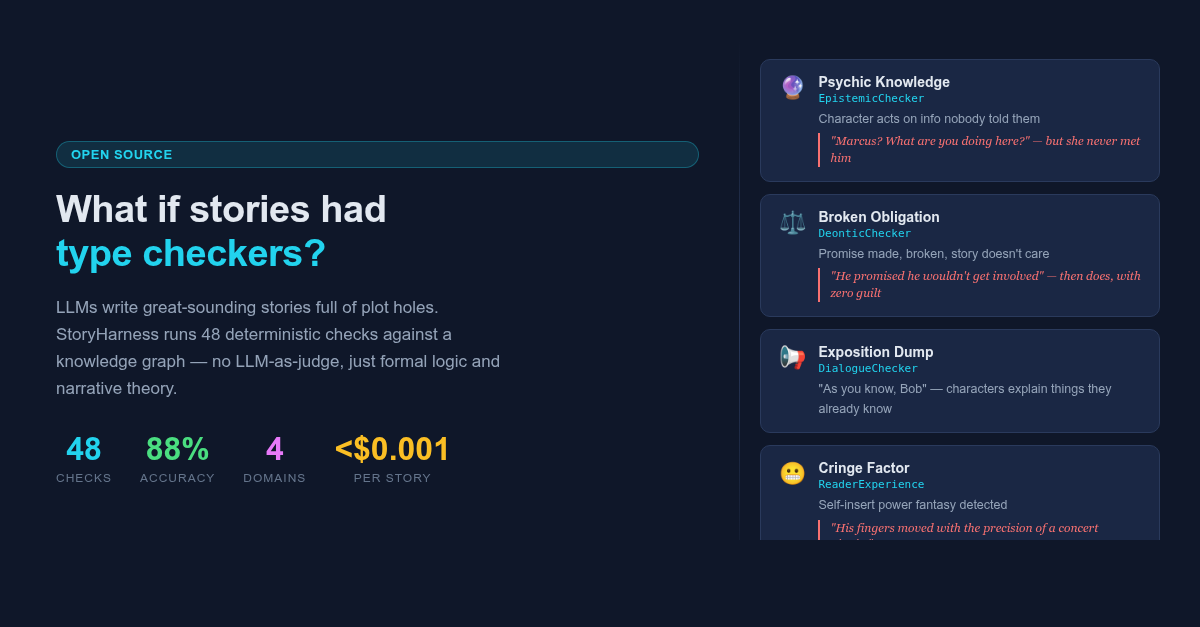
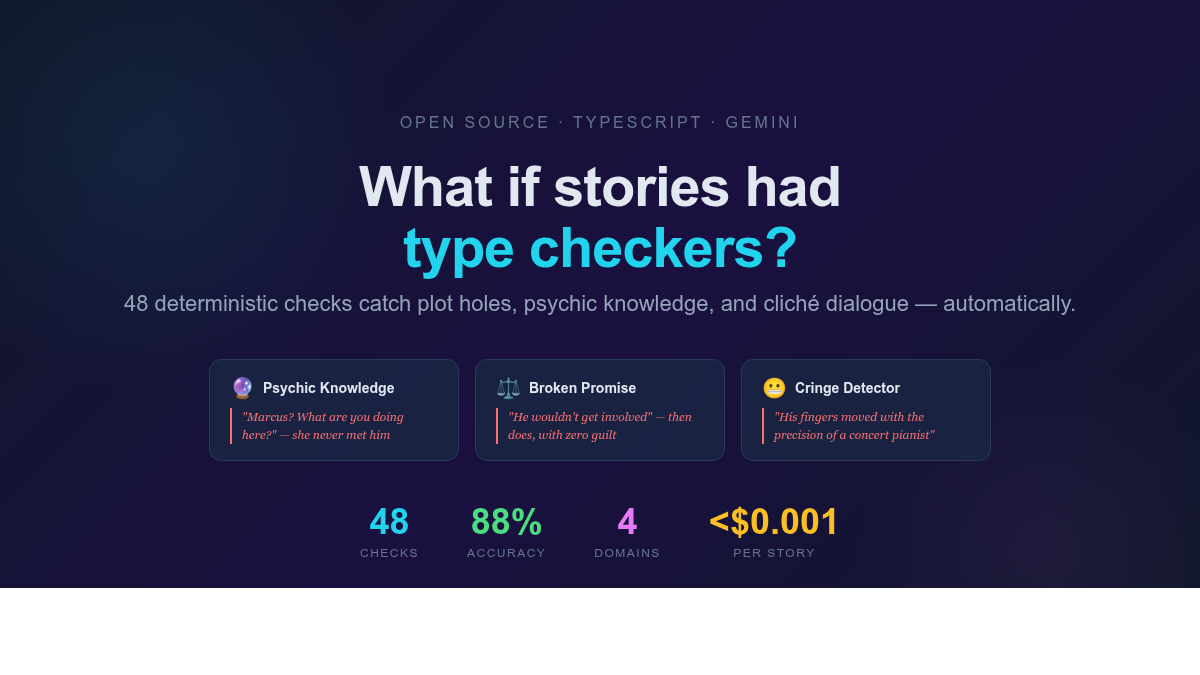
Redesign social card — centered layout, bigger text, gradient bg

diff --git a/docs/social-card.html b/docs/social-card.html
@@ -6,61 +6,103 @@
   * { margin: 0; padding: 0; box-sizing: border-box; }
   body {
     width: 1200px;
-    height: 627px;
-    background: #0f1729;
+    height: 675px;
+    background: linear-gradient(135deg, #0f1729 0%, #1a1040 50%, #0f1729 100%);
     font-family: -apple-system, BlinkMacSystemFont, 'Segoe UI', sans-serif;
     color: #e2e8f0;
     display: flex;
+    flex-direction: column;
+    align-items: center;
+    justify-content: center;
+    position: relative;
     overflow: hidden;
   }
 
-  .left {
-    flex: 1;
-    padding: 48px 40px 48px 56px;
-    display: flex;
-    flex-direction: column;
-    justify-content: center;
+  /* Background glow effects */
+  .glow-1 {
+    position: absolute;
+    width: 500px; height: 500px;
+    background: radial-gradient(circle, rgba(34, 211, 238, 0.08) 0%, transparent 70%);
+    top: -100px; left: -100px;
+  }
+  .glow-2 {
+    position: absolute;
+    width: 400px; height: 400px;
+    background: radial-gradient(circle, rgba(232, 121, 249, 0.06) 0%, transparent 70%);
+    bottom: -80px; right: -50px;
   }
 
-  .badge {
-    display: inline-block;
-    background: rgba(34, 211, 238, 0.12);
-    border: 1px solid rgba(34, 211, 238, 0.3);
-    color: #22d3ee;
-    font-size: 13px;
-    font-weight: 600;
-    padding: 5px 14px;
-    border-radius: 20px;
-    margin-bottom: 20px;
-    letter-spacing: 0.5px;
+  .content {
+    position: relative;
+    z-index: 1;
+    text-align: center;
+    padding: 0 60px;
+  }
+
+  .top-line {
+    font-size: 16px;
+    color: #64748b;
+    letter-spacing: 3px;
+    text-transform: uppercase;
+    margin-bottom: 24px;
   }
 
   h1 {
-    font-size: 38px;
+    font-size: 56px;
     font-weight: 800;
-    line-height: 1.15;
-    margin-bottom: 18px;
-    letter-spacing: -0.5px;
+    line-height: 1.1;
+    margin-bottom: 10px;
+    letter-spacing: -1px;
   }
-  h1 .highlight { color: #22d3ee; }
+  .cyan { color: #22d3ee; }
 
-  .subtitle {
-    font-size: 17px;
+  .tagline {
+    font-size: 22px;
     color: #94a3b8;
-    line-height: 1.6;
-    margin-bottom: 28px;
-    max-width: 480px;
+    margin-bottom: 40px;
+    line-height: 1.4;
+  }
+
+  .checks {
+    display: flex;
+    justify-content: center;
+    gap: 16px;
+    margin-bottom: 40px;
+  }
+
+  .check {
+    background: rgba(26, 39, 68, 0.8);
+    border: 1px solid #2a3a5c;
+    border-radius: 12px;
+    padding: 16px 20px;
+    width: 250px;
+    text-align: left;
+  }
+  .check .top {
+    display: flex;
+    align-items: center;
+    gap: 8px;
+    margin-bottom: 8px;
+  }
+  .check .emoji { font-size: 20px; }
+  .check .name { font-weight: 700; font-size: 14px; }
+  .check .quote {
+    font-family: Georgia, serif;
+    font-style: italic;
+    font-size: 12px;
+    color: #f87171;
+    border-left: 2px solid #f87171;
+    padding-left: 10px;
+    line-height: 1.5;
   }
 
   .stats {
     display: flex;
-    gap: 28px;
-  }
-  .stat {
-    text-align: center;
+    justify-content: center;
+    gap: 48px;
   }
   .stat .num {
-    font-size: 32px;
+    font-size: 36px;
     font-weight: 800;
     display: block;
   }
@@ -68,134 +110,52 @@
     font-size: 12px;
     color: #64748b;
     text-transform: uppercase;
-    letter-spacing: 1px;
-    margin-top: 2px;
+    letter-spacing: 1.5px;
   }
 
-  .right {
-    width: 460px;
-    padding: 36px 40px 36px 20px;
-    display: flex;
-    flex-direction: column;
-    justify-content: center;
-    gap: 12px;
-  }
-
-  .check-card {
-    background: #1a2744;
-    border: 1px solid #2a3a5c;
-    border-radius: 10px;
-    padding: 14px 18px;
-    display: flex;
-    align-items: flex-start;
-    gap: 12px;
-  }
-  .check-card .emoji { font-size: 22px; flex-shrink: 0; margin-top: 1px; }
-  .check-card .title {
-    font-weight: 700;
-    font-size: 14px;
-    display: block;
-    margin-bottom: 2px;
-  }
-  .check-card .checker {
-    font-family: 'JetBrains Mono', 'Fira Code', monospace;
-    font-size: 11px;
-    color: #22d3ee;
-    display: block;
-    margin-bottom: 4px;
-  }
-  .check-card .desc {
-    font-size: 12.5px;
-    color: #94a3b8;
-    line-height: 1.4;
-  }
-  .check-card .quote {
-    font-family: Georgia, serif;
-    font-style: italic;
-    font-size: 12px;
-    color: #f87171;
-    margin-top: 5px;
-    padding-left: 10px;
-    border-left: 2px solid #f87171;
-    line-height: 1.4;
-  }
-
-  .divider {
-    width: 1px;
-    background: linear-gradient(to bottom, transparent, #2a3a5c, transparent);
-    margin: 40px 0;
+  .bottom-bar {
+    position: absolute;
+    bottom: 0; left: 0; right: 0;
+    height: 4px;
+    background: linear-gradient(90deg, #22d3ee, #e879f9, #4ade80, #fbbf24);
   }
 </style>
 </head>
 <body>
 
-<div class="left">
-  <span class="badge">OPEN SOURCE</span>
-  <h1>What if stories had<br><span class="highlight">type checkers?</span></h1>
-  <div class="subtitle">
-    LLMs write great-sounding stories full of plot holes.
-    StoryHarness runs 48 deterministic checks against a knowledge graph
-    — no LLM-as-judge, just formal logic and narrative theory.
-  </div>
-  <div class="stats">
-    <div class="stat">
-      <span class="num" style="color: #22d3ee;">48</span>
-      <span class="label">Checks</span>
-    </div>
-    <div class="stat">
-      <span class="num" style="color: #4ade80;">88%</span>
-      <span class="label">Accuracy</span>
-    </div>
-    <div class="stat">
-      <span class="num" style="color: #e879f9;">4</span>
-      <span class="label">Domains</span>
-    </div>
-    <div class="stat">
-      <span class="num" style="color: #fbbf24;">&lt;$0.001</span>
-      <span class="label">Per Story</span>
-    </div>
-  </div>
-</div>
+<div class="glow-1"></div>
+<div class="glow-2"></div>
 
-<div class="divider"></div>
+<div class="content">
+  <div class="top-line">Open Source · TypeScript · Gemini</div>
 
-<div class="right">
-  <div class="check-card">
-    <span class="emoji">🔮</span>
-    <div>
-      <span class="title">Psychic Knowledge</span>
-      <span class="checker">EpistemicChecker</span>
-      <span class="desc">Character acts on info nobody told them</span>
-      <div class="quote">"Marcus? What are you doing here?" — but she never met him</div>
+  <h1>What if stories had<br><span class="cyan">type checkers?</span></h1>
+  <div class="tagline">48 deterministic checks catch plot holes, psychic knowledge, and cliché dialogue — automatically.</div>
+
+  <div class="checks">
+    <div class="check">
+      <div class="top"><span class="emoji">🔮</span> <span class="name">Psychic Knowledge</span></div>
+      <div class="quote">"Marcus? What are you doing here?" — she never met him</div>
     </div>
-  </div>
-  <div class="check-card">
-    <span class="emoji">⚖</span>
-    <div>
-      <span class="title">Broken Obligation</span>
-      <span class="checker">DeonticChecker</span>
-      <span class="desc">Promise made, broken, story doesn't care</span>
-      <div class="quote">"He promised he wouldn't get involved" — then does, with zero guilt</div>
+    <div class="check">
+      <div class="top"><span class="emoji">⚖</span> <span class="name">Broken Promise</span></div>
+      <div class="quote">"He wouldn't get involved" — then does, with zero guilt</div>
     </div>
-  </div>
-  <div class="check-card">
-    <span class="emoji">📢</span>
-    <div>
-      <span class="title">Exposition Dump</span>
-      <span class="checker">DialogueChecker</span>
-      <span class="desc">"As you know, Bob" — characters explain things they already know</span>
-    </div>
-  </div>
-  <div class="check-card">
-    <span class="emoji">😬</span>
-    <div>
-      <span class="title">Cringe Factor</span>
-      <span class="checker">ReaderExperience</span>
-      <span class="desc">Self-insert power fantasy detected</span>
+    <div class="check">
+      <div class="top"><span class="emoji">😬</span> <span class="name">Cringe Detector</span></div>
       <div class="quote">"His fingers moved with the precision of a concert pianist"</div>
     </div>
   </div>
+
+  <div class="stats">
+    <div class="stat"><span class="num" style="color:#22d3ee;">48</span><span class="label">Checks</span></div>
+    <div class="stat"><span class="num" style="color:#4ade80;">88%</span><span class="label">Accuracy</span></div>
+    <div class="stat"><span class="num" style="color:#e879f9;">4</span><span class="label">Domains</span></div>
+    <div class="stat"><span class="num" style="color:#fbbf24;">&lt;$0.001</span><span class="label">Per Story</span></div>
+  </div>
 </div>
+
+<div class="bottom-bar"></div>
 
 </body>
 </html>
